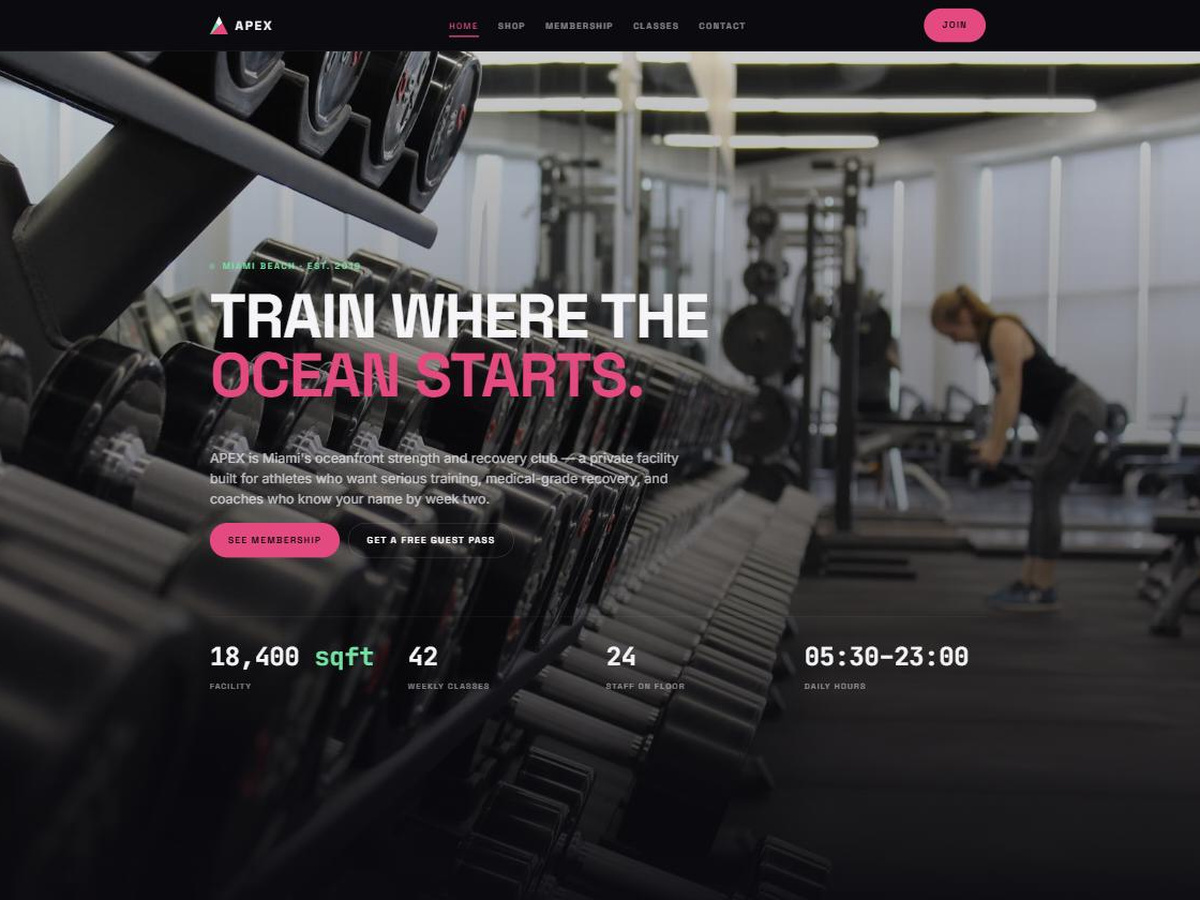
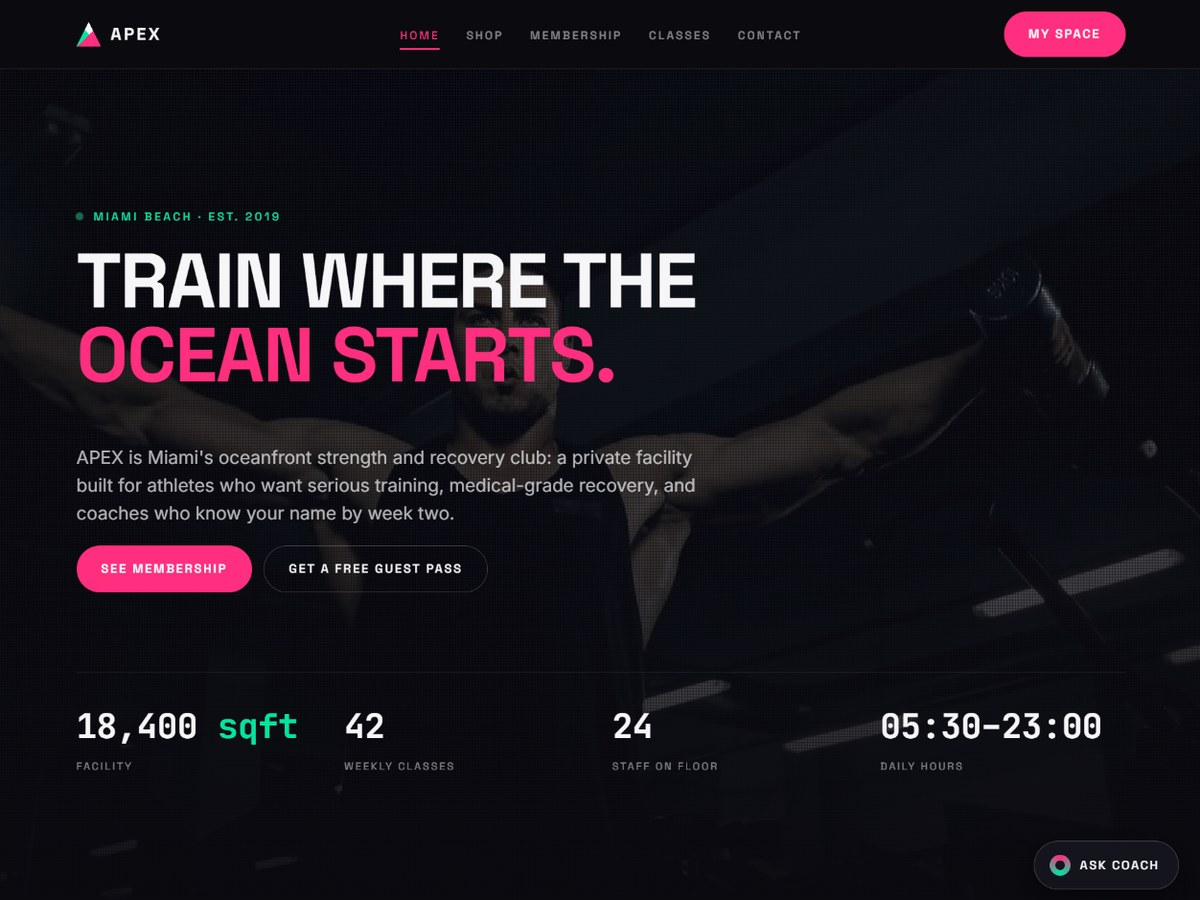
Portfolio v5: dark mode #191919, APEX hero gap fixed on portrait, fresh AI Lab thumbnails

diff --git a/src/styles/global.css b/src/styles/global.css
@@ -28,14 +28,16 @@
 }
 
 /* Dark mode: neutral graphite greys picked by David (2026-11-12): page
-   #1F1F1F, cards #303030, footer #191919. No warm or blue tint. Toggled via
+   #191919 (his reference), cards #262626, footer #1F1F1F (a lighter panel,
+   like the side panel in his reference). No warm or blue tint. Toggled via
    [data-theme] on <html>, set by the script in Layout.astro
    (localStorage-persisted, light by default, no OS detection). */
 :root[data-theme='dark'] {
-  --color-bg: #1f1f1f;
+  --color-bg: #191919;
   --color-ink: #f5f5f5;
   --color-muted: #a3a3a3;
-  --color-card: #303030;
+  --color-card: #262626;
+  --color-footer-bg: #1f1f1f;
   /* Same bright orange and white labels for buttons; small orange text is
      lightened to pass AA on the page (5.3:1) and on cards (4.6:1). */
   --color-accent-text: #f6703c;

diff --git a/public/demo/apex-athletic-club/index.html b/public/demo/apex-athletic-club/index.html
@@ -2020,6 +2020,12 @@
 	}
 	/* very small phones: long uppercase words must fit the column */
 	@media (max-width: 360px) { .h2 { font-size: 28px; } .section .head { grid-template-columns: minmax(0, 1fr); } }
+	/* Portrait screens (phones, tablets, tall emulators): the hero hugs its
+	   content. A full-height hero there left a big empty band under the
+	   stats, up to ~480px on a portrait tablet (2026-11-12). */
+	@media (orientation: portrait) {
+		.hero { min-height: 0; }
+	}
 </style>
 
 <!-- Pre-hide reveal blocks BEFORE first paint to avoid a flash of visible
